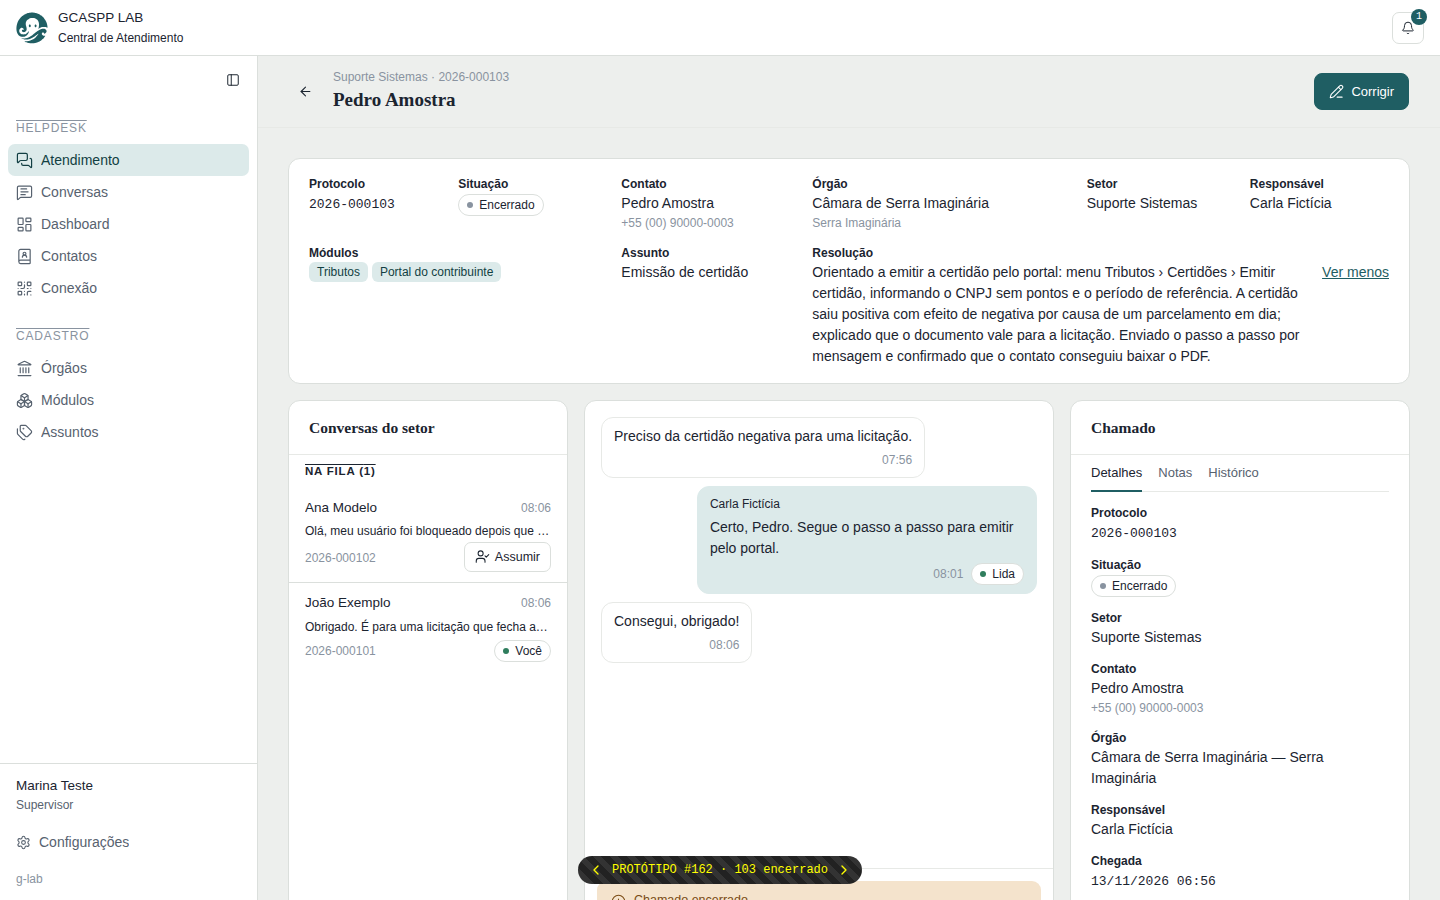
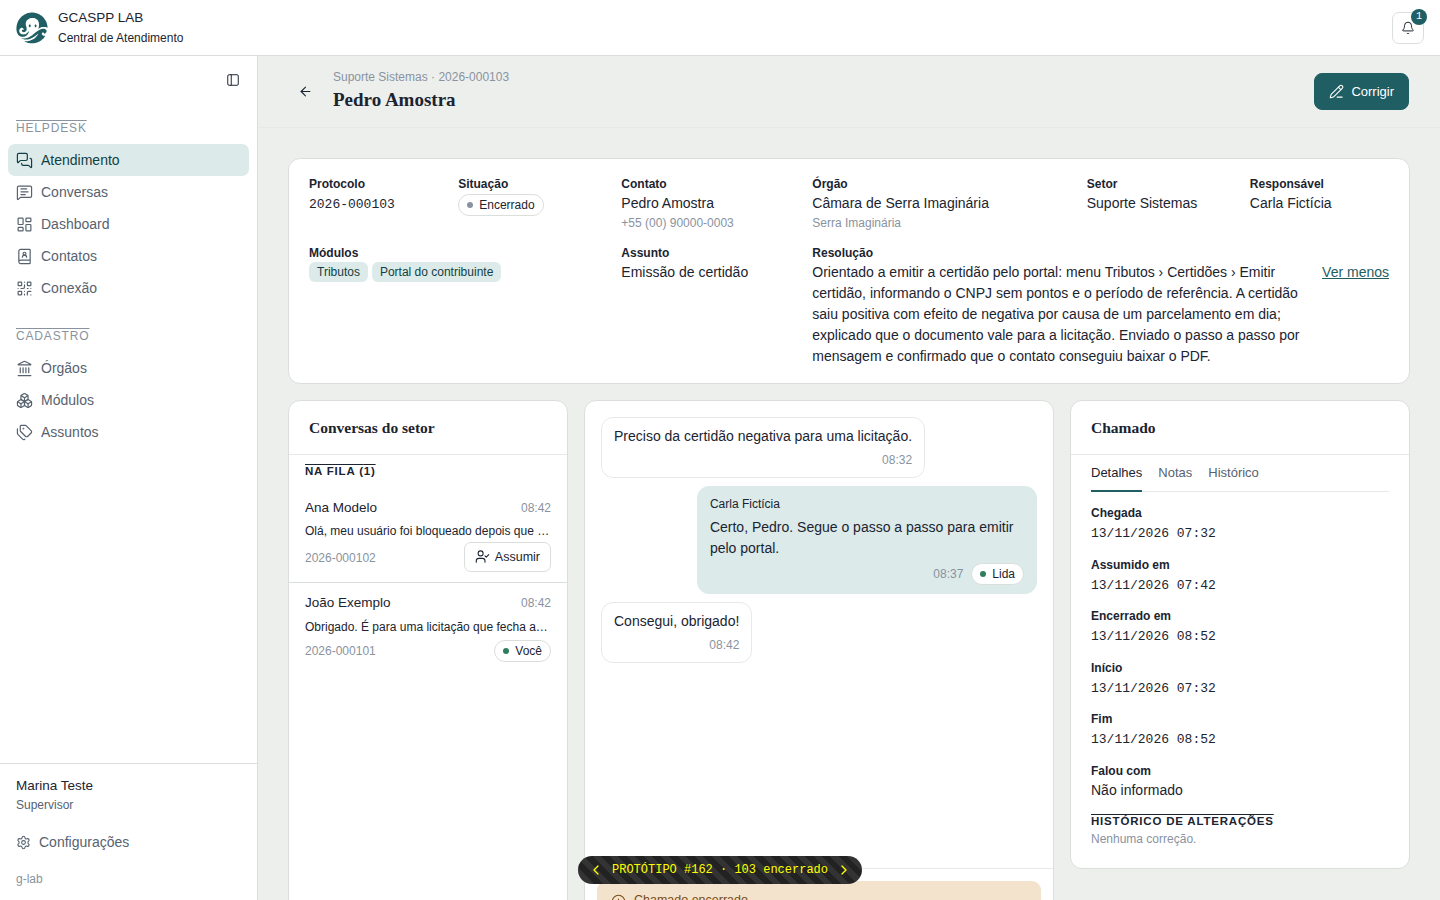
prototype(#162): aba Detalhes sem os dados que já estão no resumo do topo; novas capturas

Changed region(s): [[0.75, 0.56, 0.875, 0.9956]]

diff --git a/frontend/src/pages/ticket/TicketPage.tsx b/frontend/src/pages/ticket/TicketPage.tsx
@@ -79,9 +79,6 @@ import {
   formatDuration,
   formatFileSize,
   formatMessageTime,
-  formatPhone,
-  organizationLabel,
-  ticketStatusLabel,
 } from '@/lib/format'
 import { type Recording, useVoiceRecorder } from '@/lib/recorder'
 import { cn } from '@/lib/utils'
@@ -854,11 +851,9 @@ function DetailsTab({
   user: User
   onRegister: () => void
 }) {
-  const status = ticketStatusLabel(ticket.status, ticket.closureType)
   const cancelled = ticket.closureType === 'cancelled'
   // O cancelado não lança o atendimento: não tem formulário de encerramento nem correções.
   const closed = ticket.status === 'closed' && !cancelled
-  const { data: modules = [] } = useTicketModules(ticket.id, closed)
   const { data: corrections } = useCorrections(ticket.id, closed)
   const row = (label: string, value: ReactNode) => (
     <div>
@@ -868,37 +863,13 @@ function DetailsTab({
   )
   return (
     <dl className="flex flex-col gap-3">
-      {row('Protocolo', <span className="mono-num">{ticket.protocol}</span>)}
-      {row('Situação', <Badge tone={status.tone}>{status.label}</Badge>)}
-      {row('Setor', ticket.sector.name)}
-      {row(
-        'Contato',
-        <>
-          {ticket.contact.name}
-          <span className="mono-num block caption text-ink-faint">
-            {ticket.contact.phone ? formatPhone(ticket.contact.phone) : 'Sem telefone'}
-          </span>
-          {needsRegistration(ticket) && (
-            <Button variant="outline" size="sm" className="mt-2" onClick={onRegister}>
-              Cadastrar contato
-            </Button>
-          )}
-        </>,
+      {/* PROTÓTIPO #162: protocolo, situação, setor, contato, órgão, transferência e responsável
+          saíram daqui; estão no resumo do topo. */}
+      {needsRegistration(ticket) && (
+        <Button variant="outline" size="sm" className="self-start" onClick={onRegister}>
+          Cadastrar contato
+        </Button>
       )}
-      {row(
-        'Órgão',
-        ticket.organization
-          ? organizationLabel(ticket.organization.name, ticket.organization.municipality.name)
-          : 'Não cadastrado',
-      )}
-      {ticket.next &&
-        row(
-          'Transferido para',
-          <>
-            {ticket.next.sectorName} · <span className="mono-num">{ticket.next.protocol}</span>
-          </>,
-        )}
-      {row('Responsável', ticket.assignee?.name ?? 'Sem responsável')}
       {row('Chegada', <span className="mono-num">{formatDateTime(ticket.arrivedAt)}</span>)}
       {ticket.assignedAt &&
         row('Assumido em', <span className="mono-num">{formatDateTime(ticket.assignedAt)}</span>)}
@@ -909,21 +880,7 @@ function DetailsTab({
         )}
       {closed && (
         <>
-          {row('Assunto', ticket.subject)}
-          {row(
-            'Resolução',
-            <span className="whitespace-pre-wrap break-words">{ticket.resolution}</span>,
-          )}
-          {row(
-            'Módulos',
-            <span className="flex flex-wrap gap-1">
-              {modules.map((module) => (
-                <Badge key={module.id} variant="tag">
-                  {module.name}
-                </Badge>
-              ))}
-            </span>,
-          )}
+          {/* PROTÓTIPO #162: assunto, resolução e módulos estão no resumo do topo. */}
           {row('Início', <span className="mono-num">{formatDateTime(ticket.startedAt)}</span>)}
           {ticket.endedAt &&
             row('Fim', <span className="mono-num">{formatDateTime(ticket.endedAt)}</span>)}
